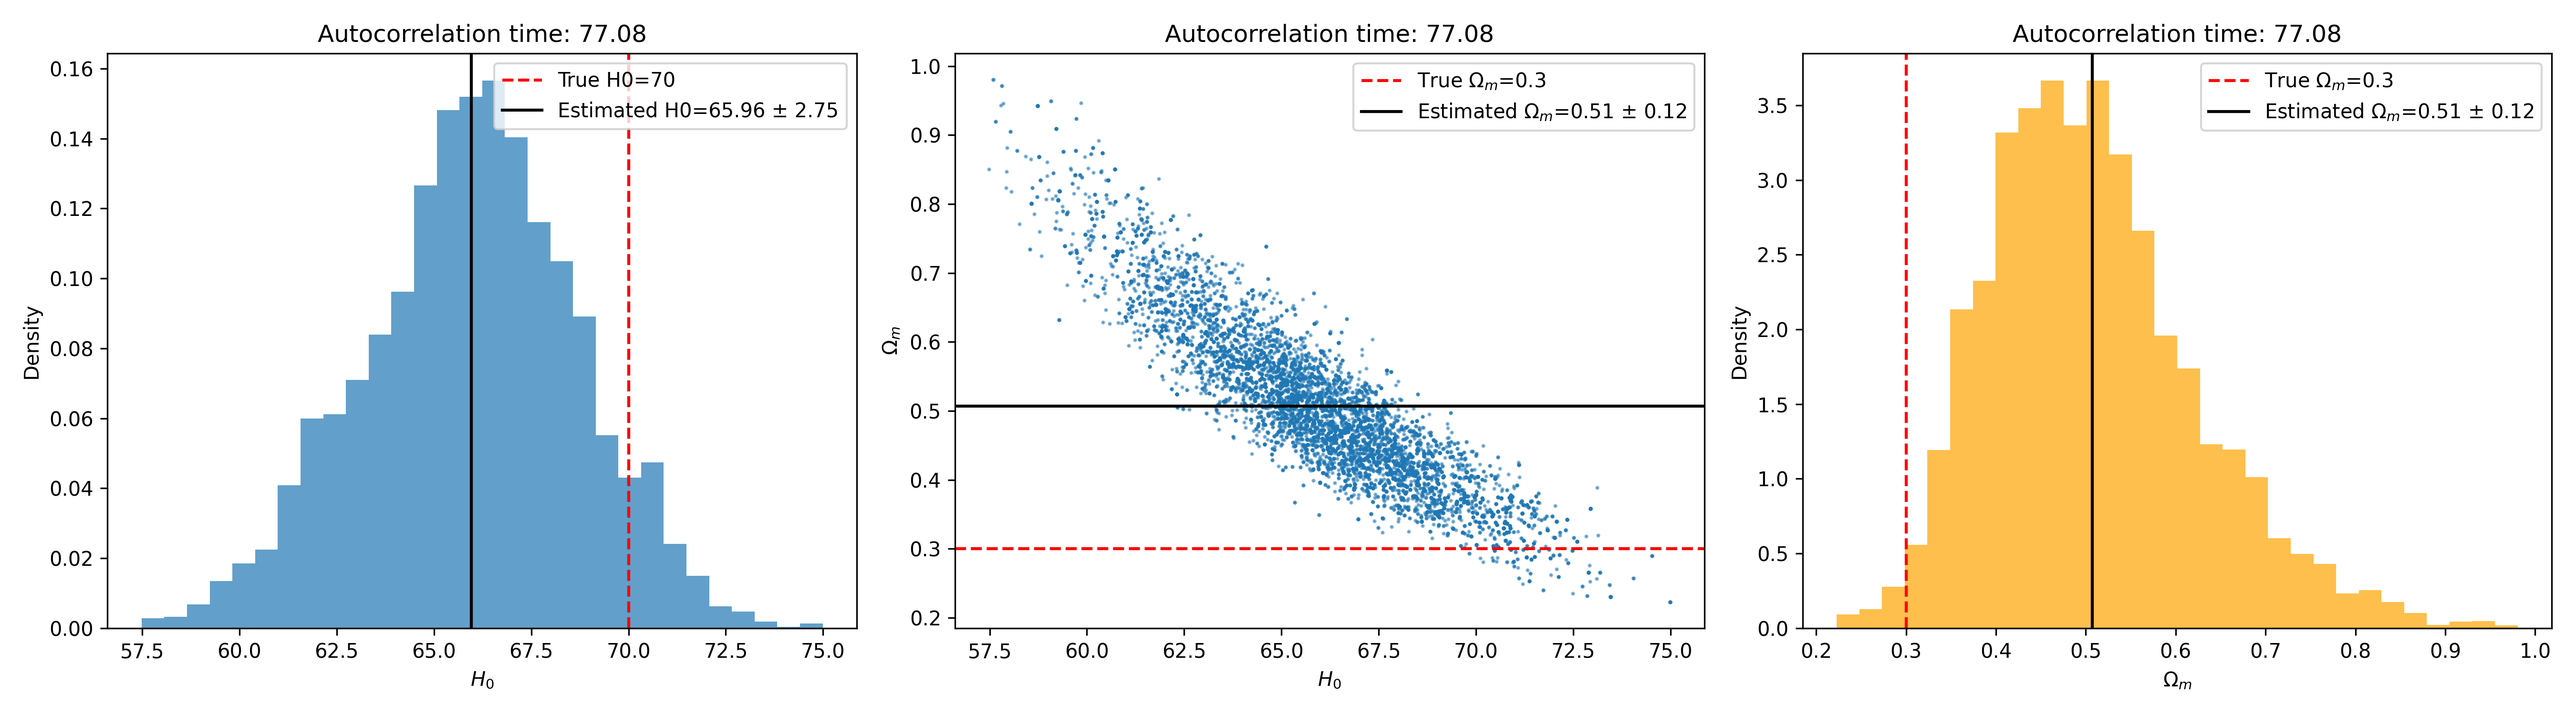
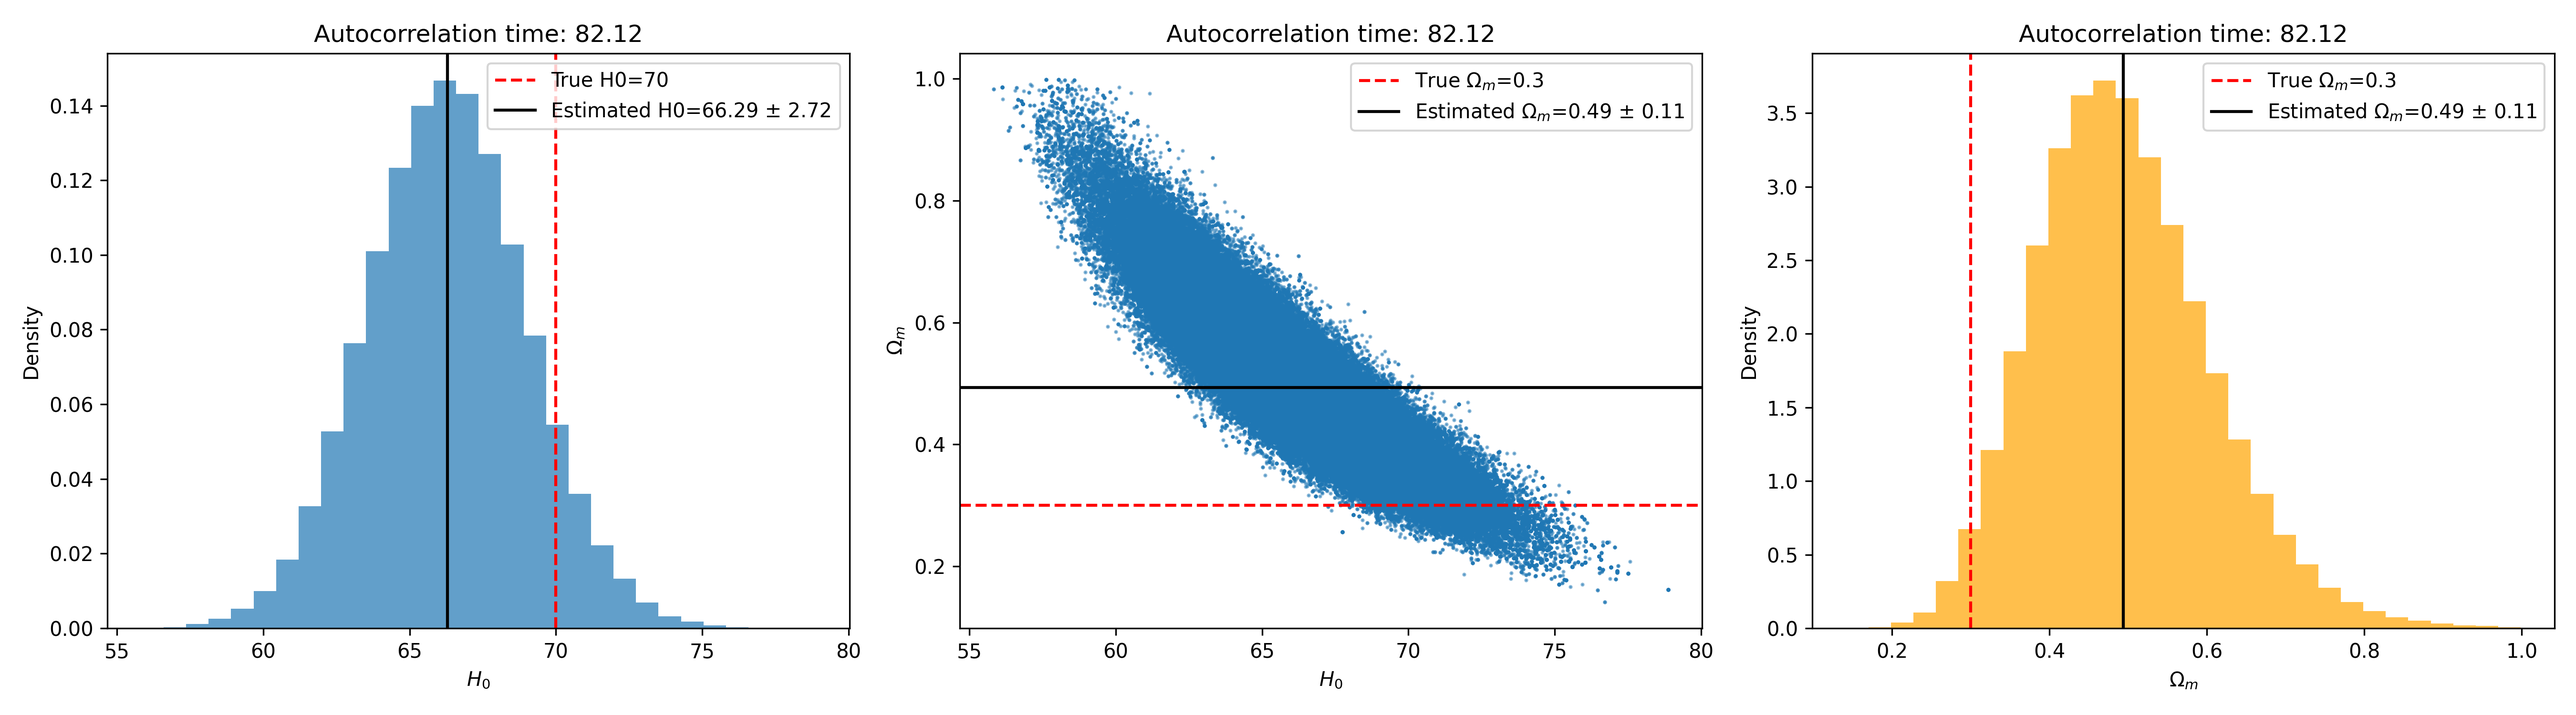
tempo de correlação arrumado

diff --git a/FinalProject/FinalProject_StretchMove.py b/FinalProject/FinalProject_StretchMove.py
@@ -36,7 +36,7 @@ def log_likelihood(theta):
     chi2 = np.sum((mu_data - mu_model) ** 2 / 0.2**2)
     return -0.5 * chi2
 
-# Stretch Move sampling
+
 def stretch_move_sampling(iterations, n_walkers, init_H0=70, init_Omega_m=0.3):
     # Initialize walkers
     ndim = 2  # Number of parameters (H0, Omega_m)
@@ -44,9 +44,9 @@ def stretch_move_sampling(iterations, n_walkers, init_H0=70, init_Omega_m=0.3):
     walkers[:, 0] = init_H0 + 1e-4 * np.random.randn(n_walkers)  # H0
     walkers[:, 1] = init_Omega_m + 1e-4 * np.random.randn(n_walkers)  # Omega_m
 
-    # Initialize chains
-    H0_chain = []
-    Omega_m_chain = []
+    # Initialize chains for each walker
+    H0_chains = np.zeros((iterations, n_walkers))  # Shape: (iterations, n_walkers)
+    Omega_m_chains = np.zeros((iterations, n_walkers))  # Shape: (iterations, n_walkers)
 
     # Stretch Move parameters
     a = 2.0  # Scale factor for the stretch move
@@ -63,36 +63,26 @@ def stretch_move_sampling(iterations, n_walkers, init_H0=70, init_Omega_m=0.3):
             z = z**2 / a  # Scale the stretch factor
 
             # Propose a new position
-            new_theta = walkers[j] + z * (walkers[k] - walkers[j])
+            y = walkers[j] + z * (walkers[k] - walkers[j])
 
             # Compute the log-likelihood ratio
-            logL_new = log_likelihood(new_theta)
+            logL_new = log_likelihood(y)
             logL_old = log_likelihood(walkers[k])
             accept_ratio = z**(ndim - 1) * np.exp(logL_new - logL_old)
 
             # Accept or reject the proposal
             if np.random.rand() < accept_ratio:
-                walkers[k] = new_theta
+                walkers[k] = y
             else:
                 walkers[k] = walkers[k]
 
         # Save the current state of the walkers
-        H0_chain.extend(walkers[:, 0])
-        Omega_m_chain.extend(walkers[:, 1])
+        H0_chains[i, :] = walkers[:, 0]  # Save all walkers' H0 values
+        Omega_m_chains[i, :] = walkers[:, 1]  # Save all walkers' Omega_m values
 
-    return np.array(H0_chain), np.array(Omega_m_chain)
+    return H0_chains, Omega_m_chains
 
-def autocorrelation_time(chain, max_lag=None):
-    """
-    Calculate the autocorrelation time for an MCMC chain.
-
-    Parameters:
-        chain (ndarray): The MCMC chain for a single parameter (1D array).
-        max_lag (int): Maximum lag to compute the autocorrelation. If None, use len(chain)//2.
-
-    Returns:
-        float: The autocorrelation time.
-    """
+def autocorrelation_time(chain, max_lag=None, truncate_threshold=0.01):
     n = len(chain)
     if max_lag is None:
         max_lag = n // 2
@@ -106,32 +96,43 @@ def autocorrelation_time(chain, max_lag=None):
         autocorr[t] = np.sum(chain[:n - t] * chain[t:]) / np.sum(chain**2)
 
     # Truncate the sum when autocorrelation becomes negligible
-    truncate_lag = np.where(np.abs(autocorr) < 0.05)[0]
+    truncate_lag = np.where(np.abs(autocorr) < truncate_threshold)[0]
     if len(truncate_lag) > 0:
         max_lag = truncate_lag[0]
 
-    # Calculate the autocorrelation time
+#     # Calculate the autocorrelation time
     tau = 1 + 2 * np.sum(autocorr[:max_lag])
+
     return tau
 
 # Run MCMC
-iterations = 1000
-n_walkers = 32
-H0_samples, Omega_m_samples = stretch_move_sampling(iterations, n_walkers)
+iterations = 5000
+n_walkers = 50
+H0_chains, Omega_m_chains = stretch_move_sampling(iterations, n_walkers)
 
-# Discard burn-in (first 1000 samples)
-H0_samples = H0_samples[1000:]
-Omega_m_samples = Omega_m_samples[1000:]
+# Discard burn-in (first 20% of the chain)
+burn_in = iterations // 5
+H0_chains = H0_chains[burn_in:, :]
+Omega_m_chains = Omega_m_chains[burn_in:, :]
+
+# Compute autocorrelation time for each walker
+tau_H0 = np.mean([autocorrelation_time(H0_chains[:, w]) for w in range(n_walkers)])
+tau_Omega_m = np.mean([autocorrelation_time(Omega_m_chains[:, w]) for w in range(n_walkers)])
+
+print(f"Autocorrelation time for H0: {tau_H0}")
+print(f"Autocorrelation time for Omega_m: {tau_Omega_m}")
+
+# Flatten the chains
+H0_samples = H0_chains.flatten()  # Combine all walkers' chains
+Omega_m_samples = Omega_m_chains.flatten()  # Combine all walkers' chains
+print(f"{len(H0_samples)}")
+print(f"{len(Omega_m_samples)}")
 
 # Calculate mean and standard deviation for H0 and Omega_m
 H0_mean = np.mean(H0_samples)
 H0_std = np.std(H0_samples)
 Omega_m_mean = np.mean(Omega_m_samples)
 Omega_m_std = np.std(Omega_m_samples)
-
-# Calculate the autocorrelation time
-tau_H0 = autocorrelation_time(H0_samples)
-tau_Omega_m = autocorrelation_time(Omega_m_samples)
 
 # Plot results
 plt.figure(figsize=(18, 5))

diff --git a/FinalProject/FinalProject_MH.py b/FinalProject/FinalProject_MH.py
@@ -67,14 +67,7 @@ def metropolis_hastings(iterations, init_H0=70, init_Omega_m=0.3, step_size=1.0)
 
 def autocorrelation_time(chain, max_lag=None):
     """
-    Calculate the autocorrelation time for an MCMC chain.
-
-    Parameters:
-        chain (ndarray): The MCMC chain for a single parameter (1D array).
-        max_lag (int): Maximum lag to compute the autocorrelation. If None, use len(chain)//2.
-
-    Returns:
-        float: The autocorrelation time.
+    Calculate the autocorrelation time using FFT for numerical stability.
     """
     n = len(chain)
     if max_lag is None:
@@ -83,10 +76,8 @@ def autocorrelation_time(chain, max_lag=None):
     # Normalize the chain
     chain = chain - np.mean(chain)
 
-    # Compute the autocorrelation function
-    autocorr = np.zeros(max_lag)
-    for t in range(max_lag):
-        autocorr[t] = np.sum(chain[:n - t] * chain[t:]) / np.sum(chain**2)
+    # Compute the autocorrelation function using FFT
+    autocorr = np.correlate(chain, chain, mode='full')[n - 1:] / np.sum(chain**2)
 
     # Truncate the sum when autocorrelation becomes negligible
     truncate_lag = np.where(np.abs(autocorr) < 0.05)[0]
@@ -98,8 +89,11 @@ def autocorrelation_time(chain, max_lag=None):
     return tau
 
 # Run MCMC
-iterations = 10000
+iterations = 249999
 H0_sample, Omega_m_sample = metropolis_hastings(iterations)
+
+print(f"{len(H0_sample)}")
+print(f"{len(Omega_m_sample)}")
 
 # Calculate autocorrelation time
 tau = autocorrelation_time(H0_sample[1000:])

diff --git a/FinalProject/FinalProject_using_emcee.py b/FinalProject/FinalProject_using_emcee.py
@@ -37,7 +37,7 @@ def log_likelihood(theta):
     chi2 = np.sum((mu_data - mu_model) ** 2 / 0.2**2)
     return -0.5 * chi2
 
-nwalkers = 32
+nwalkers = 50
 ndim = 2
 
 sampler = emcee.EnsembleSampler(nwalkers, ndim, log_likelihood)
@@ -48,7 +48,7 @@ initial_Omega_m = np.random.normal(0.3, 0.1, nwalkers)  # Centered around 0.3 wi
 initial_positions = np.vstack((initial_H0, initial_Omega_m)).T
 
 # Run the MCMC sampler
-nsteps = 2000  # Number of steps to run the sampler
+nsteps = 5000  # Number of steps to run the sampler
 sampler.run_mcmc(initial_positions, nsteps, progress=True)
 
 # Calculate the autocorrelation time
@@ -61,6 +61,9 @@ samples = sampler.get_chain(flat=True)
 # Extract the samples and calculate statistics
 H0_samples = samples[:, 0]
 Omega_m_samples = samples[:, 1]
+
+print(f"{len(H0_samples)}")
+print(f"{len(Omega_m_samples)}")
 
 H0_mean = np.mean(H0_samples)
 H0_std = np.std(H0_samples)
